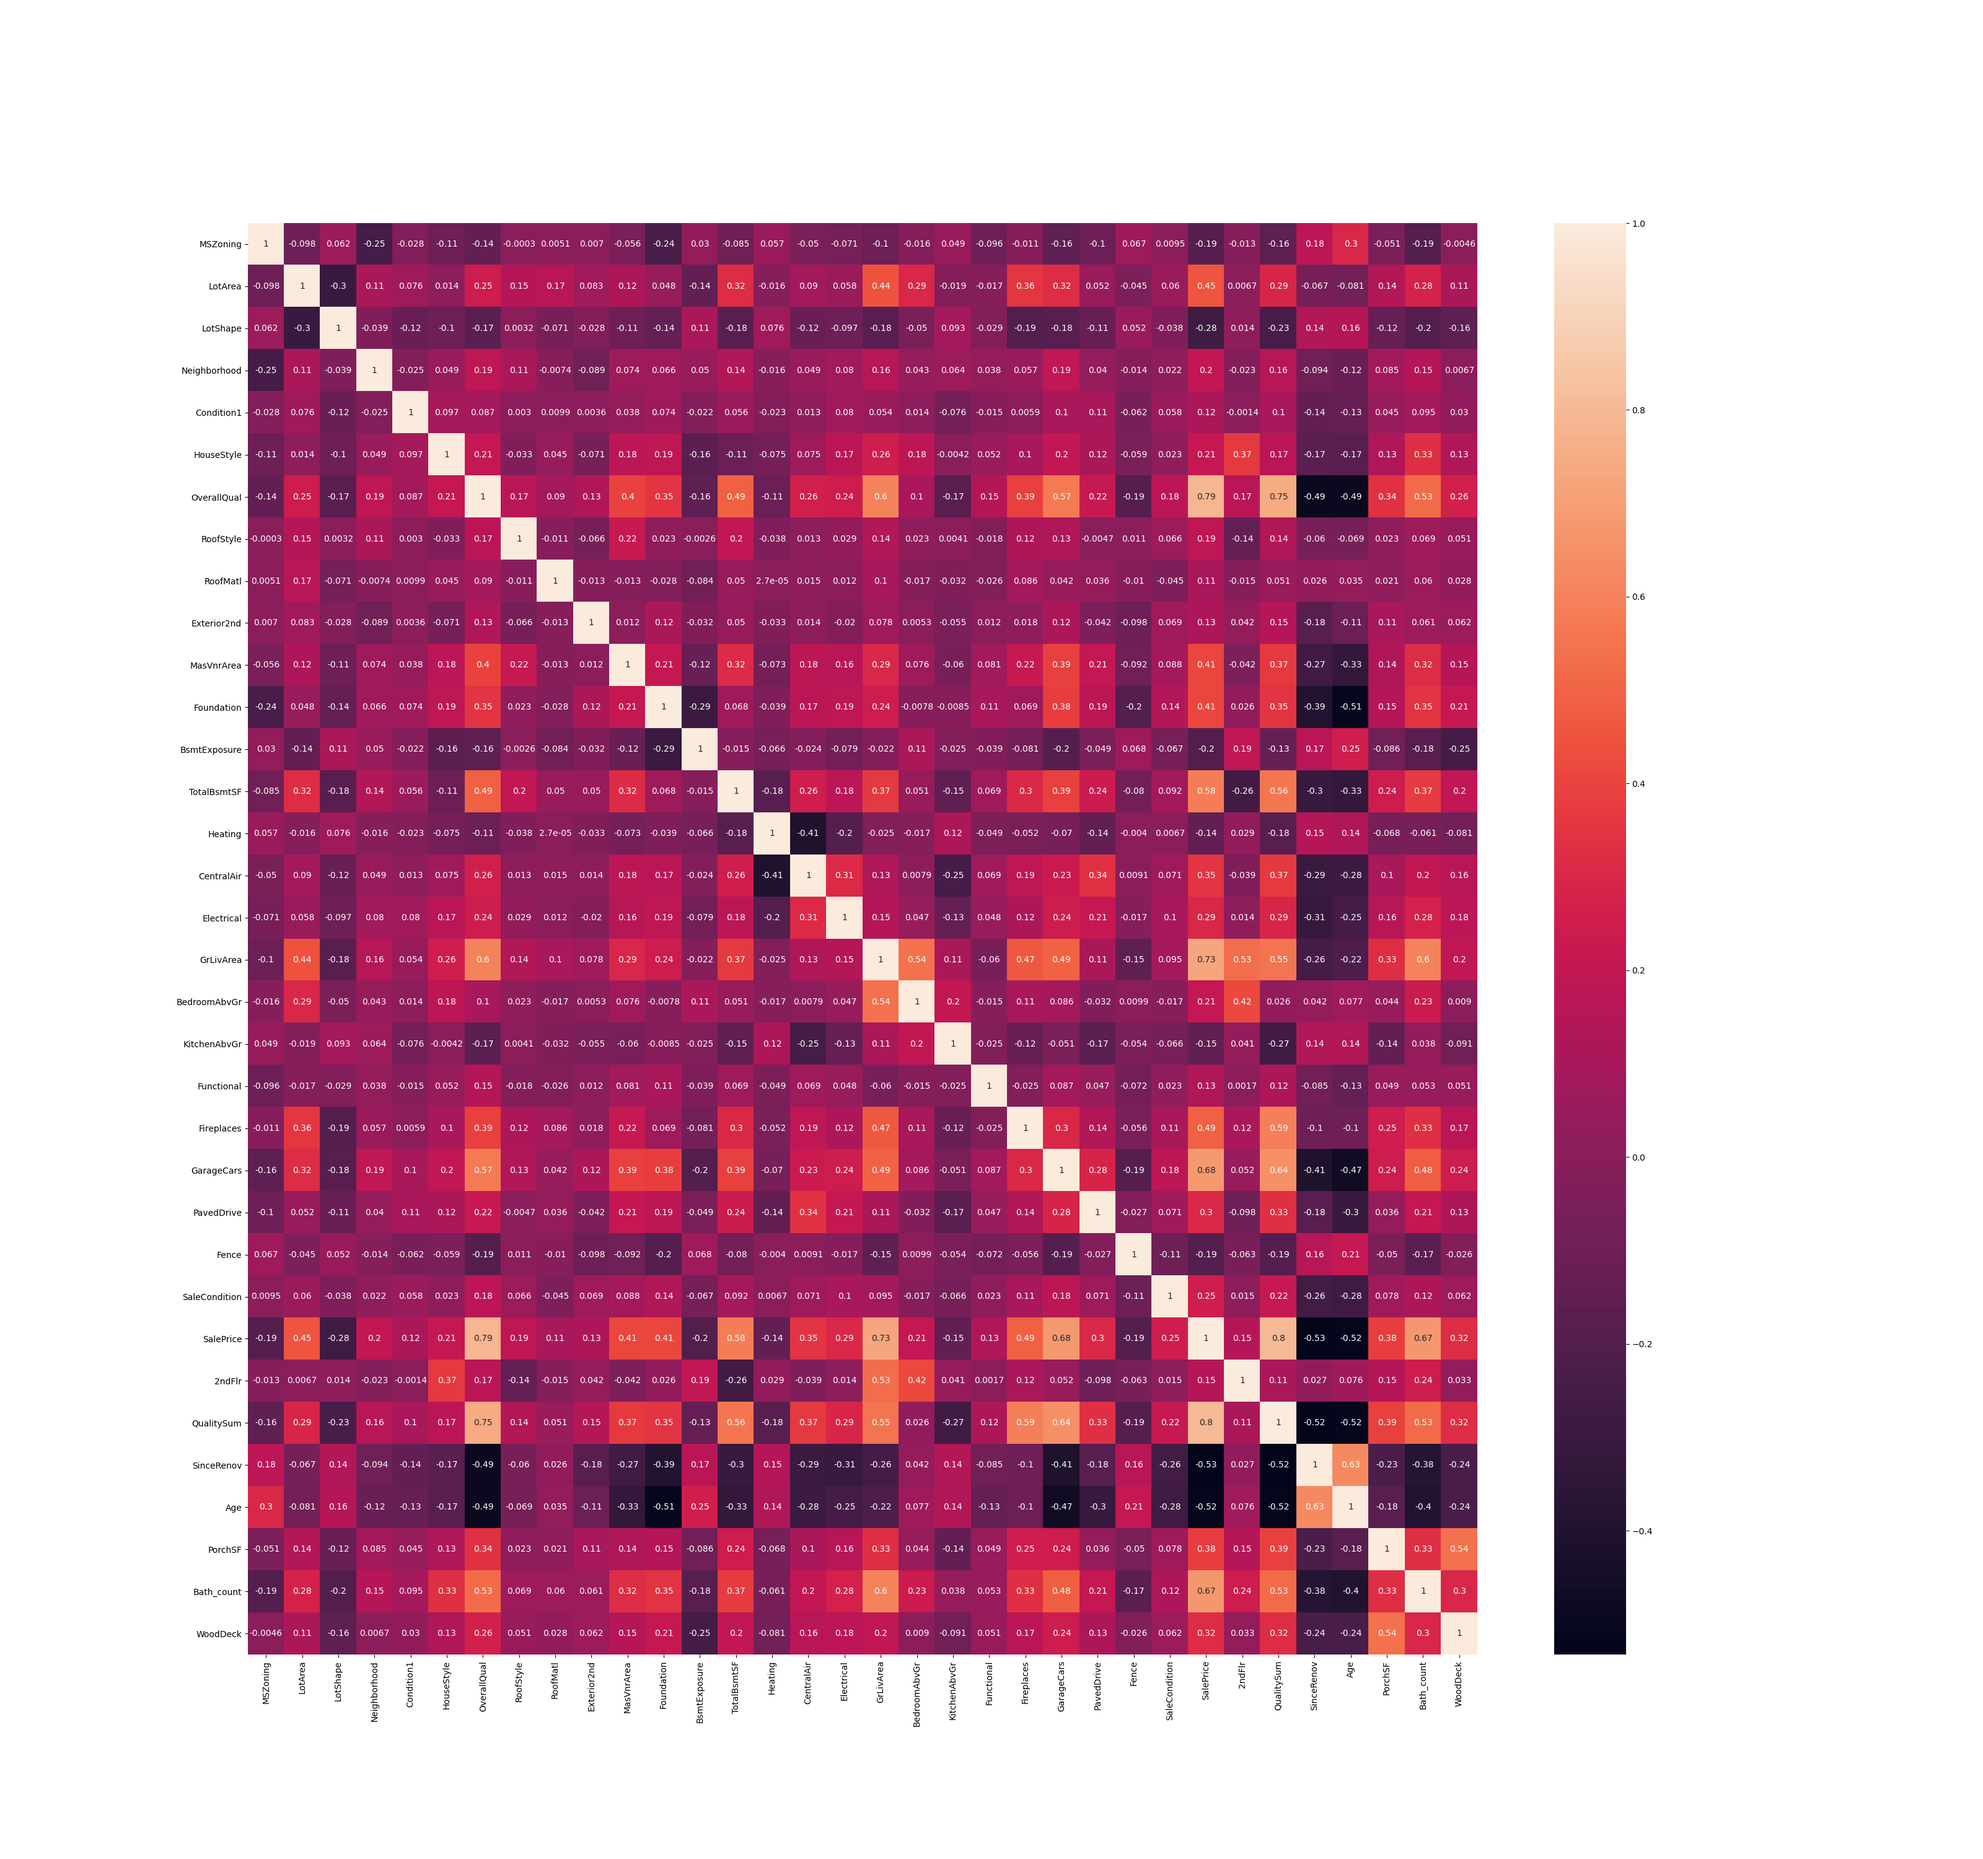
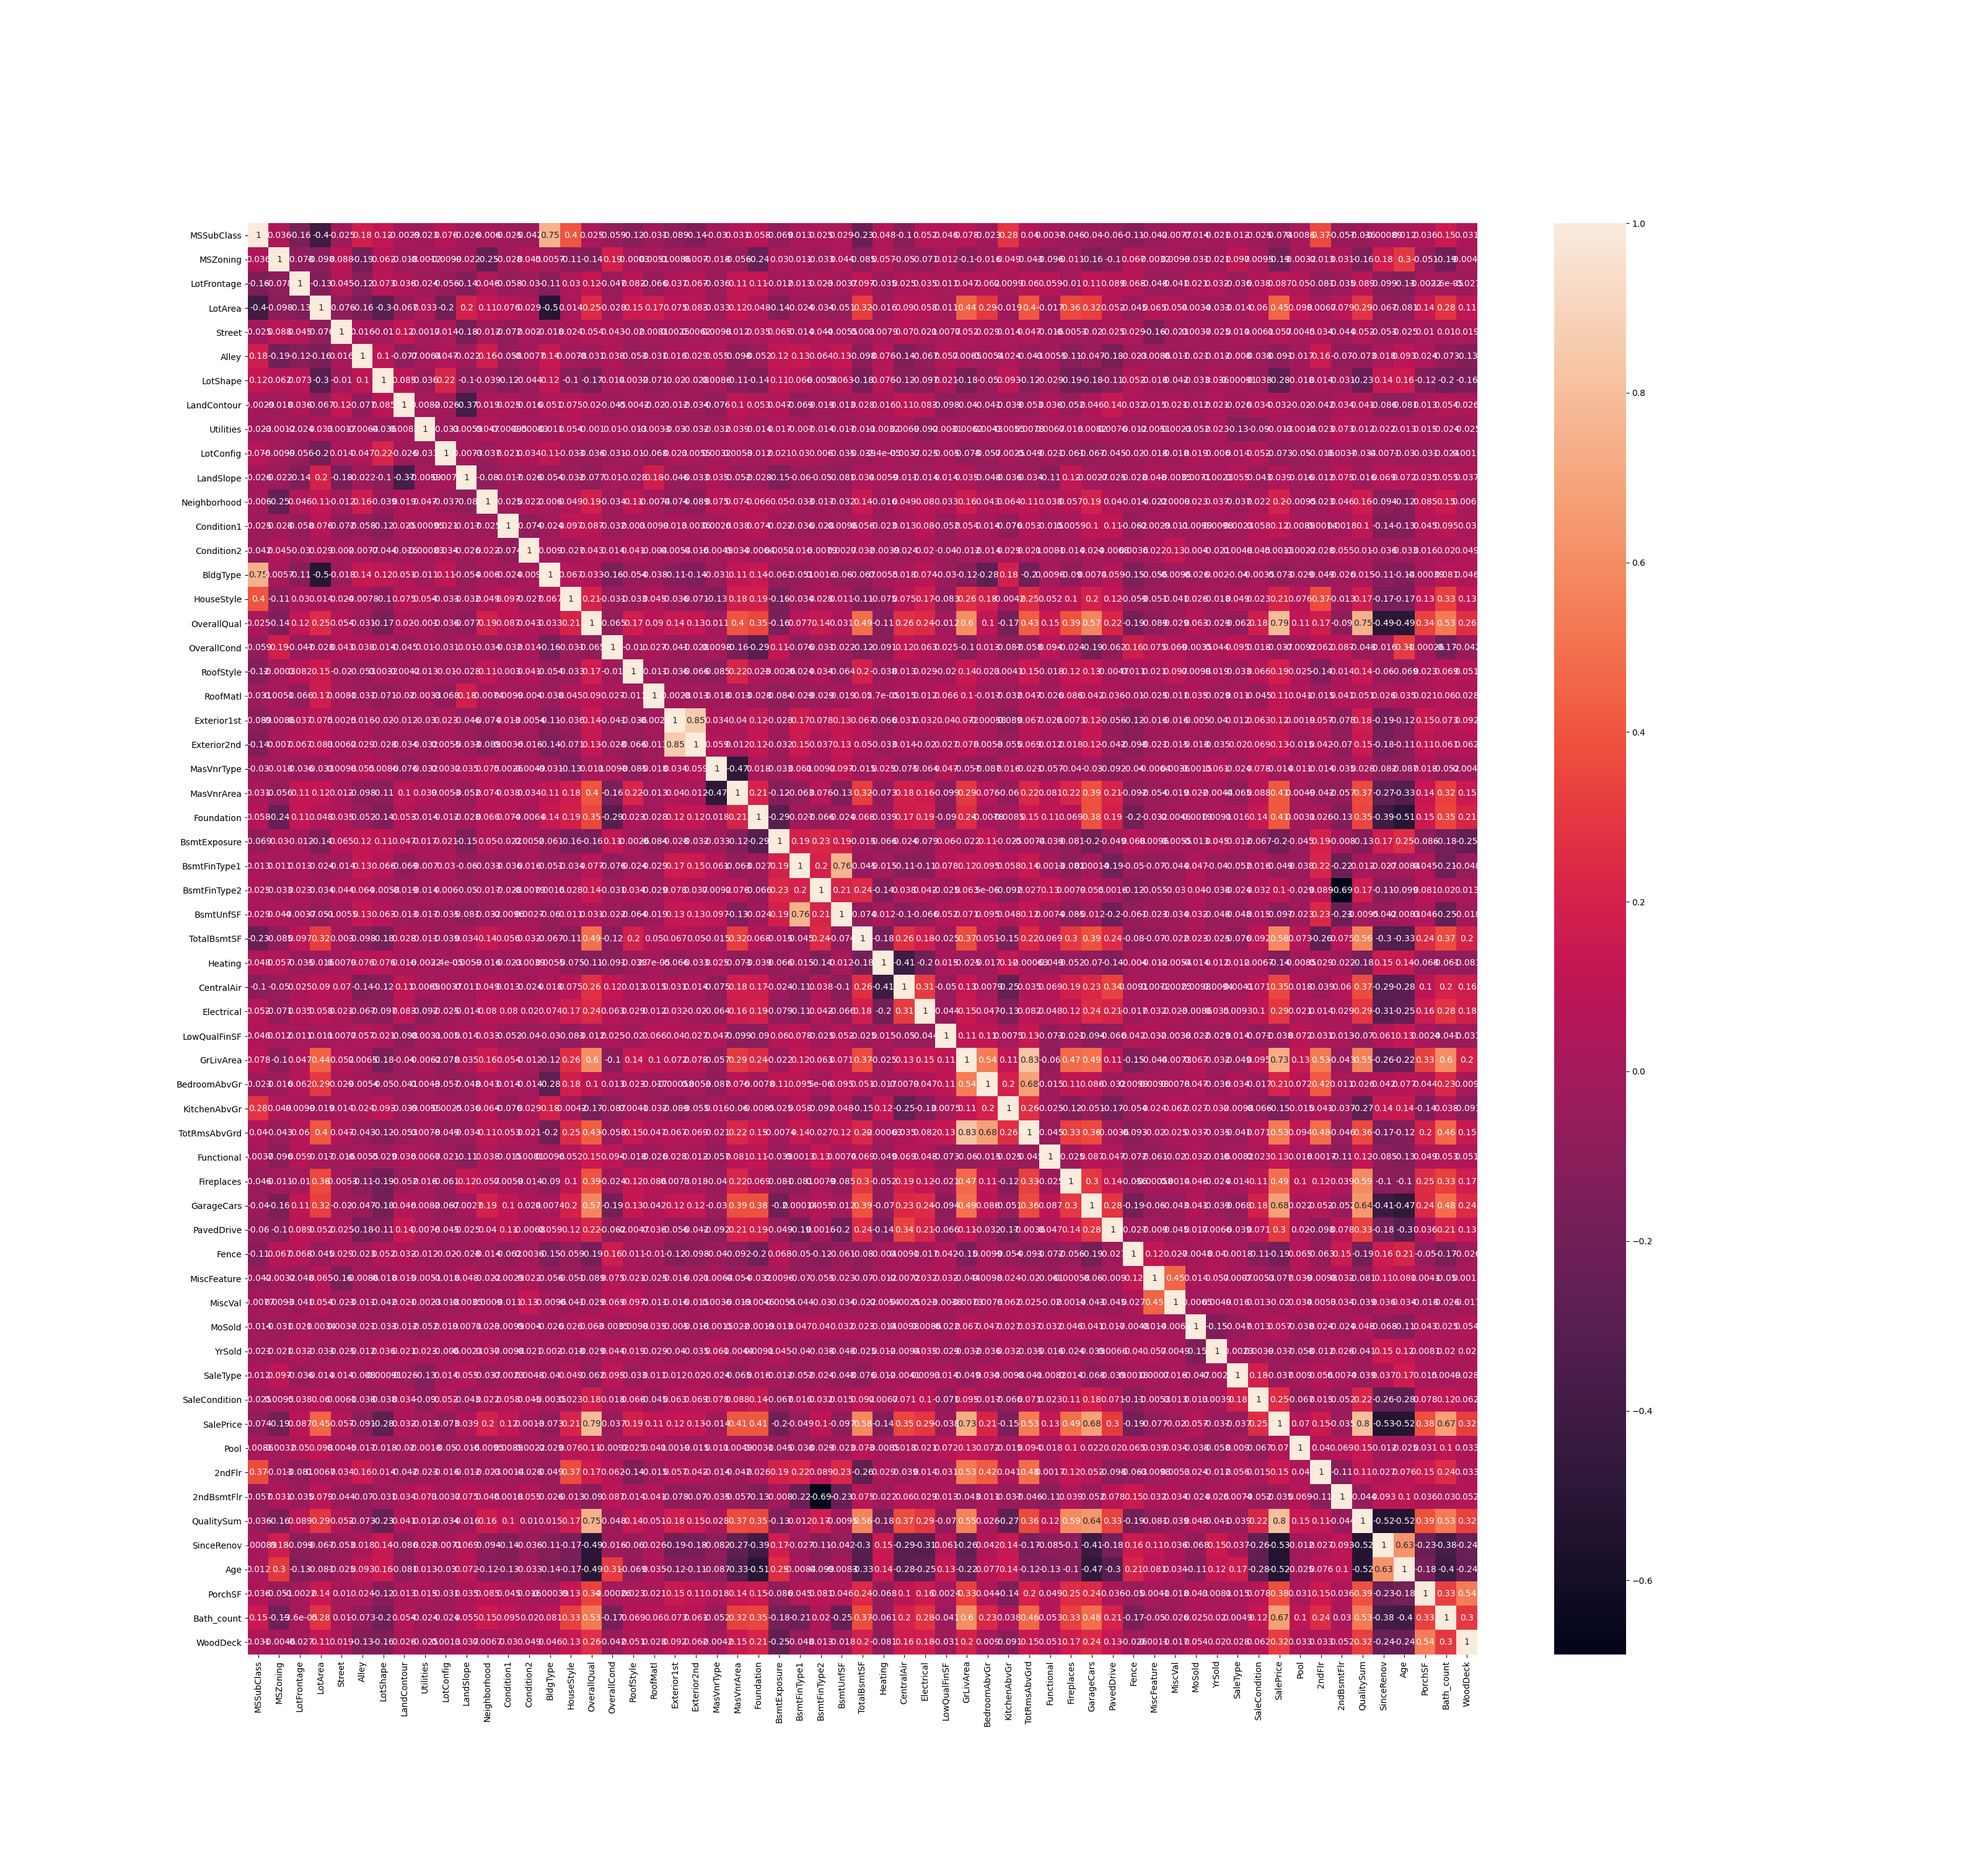
cleaning, boxplot

diff --git a/train.py b/train.py
@@ -67,8 +67,8 @@ print(combine_data.groupby('MasVnrType', as_index=False)['OverallQual'].mean())
 
 
 numeric_list = ['Alley','Street','MiscFeature','Pool','2ndFlr']
-drop_list_columns = ['YearBuilt','1stFlrSF','2ndFlrSF','YearRemodAdd','BsmtFinSF1']
-quantile_list = ['SalePrice','LotArea','LotFrontage','Age','GrLivArea','TotalBsmtSF','GrLivArea','MasVnrArea','BsmtUnfSF','BsmtFinSF1','BsmtFinSF2','1stFlrSF','2ndFlrSF','GarageArea','PorchSF','QualitySum','OverallQual','SinceRenov']
+drop_list_columns = ['YearBuilt','1stFlrSF','2ndFlrSF','YearRemodAdd','BsmtFinSF1','Id','BsmtFinSF2']
+continuous_list = ['SalePrice','LotArea','LotFrontage','Age','GrLivArea','TotalBsmtSF','GrLivArea','MasVnrArea','BsmtUnfSF','BsmtFinSF1','BsmtFinSF2','1stFlrSF','2ndFlrSF','GarageArea','PorchSF','QualitySum','OverallQual','SinceRenov']
 garage_list = ['GarageType','GarageYrBlt','GarageFinish','GarageQual','GarageCond','GarageArea']
 quality_sum_list =['ExterQual','ExterCond','BsmtQual','BsmtCond','HeatingQC','KitchenQual','FireplaceQu','GarageQual','GarageCond','PoolQC']
 bath_list = ['BsmtFullBath','BsmtHalfBath','FullBath','HalfBath']
@@ -239,11 +239,11 @@ plt.savefig('graphs/heatmap_before.png')
 plt.close
 
 #####Histogramms numerical
-hist_list = ['LotFrontage','LotArea','MasVnrArea','BsmtFinSF1','TotalBsmtSF','1stFlrSF','2ndFlrSF','GrLivArea','LowQualFinSF','GarageArea','PorchSF','Bath_count']
-f, ax = plt.subplots(4, 4, figsize=(20, 20))
+##hist_list = ['LotFrontage','LotArea','MasVnrArea','BsmtFinSF1','TotalBsmtSF','1stFlrSF','2ndFlrSF','GrLivArea','LowQualFinSF','GarageArea','PorchSF','Bath_count']
+f, ax = plt.subplots(4, 5, figsize=(20, 20))
 l=1
-for i in hist_list:
-	ax = plt.subplot(4,4,l)
+for i in continuous_list:
+	ax = plt.subplot(4,5,l)
 	sn.histplot(data=train[i])
 	ax.set_title(i)
 	l+=1
@@ -254,13 +254,47 @@ plt.close
 ###transform numerical to obtain normal distribution
 quantile = QuantileTransformer(n_quantiles=1000,output_distribution='normal')
 for i in data:
-	for col in quantile_list:
+	for col in continuous_list:
 		if i.name == 'test' and col == 'SalePrice':
 			pass
 		elif i.name == 'train' and col == 'SalePrice':
 			i[col] = np.log1p(i.loc[:,col].values.reshape(-1, 1))
 		else:
 			i[col] = quantile.fit_transform(i.loc[:,col].values.reshape(-1, 1))
+
+f, ax = plt.subplots(4, 5, figsize=(20, 20))
+l=1
+for i in continuous_list:
+	ax = plt.subplot(4,5,l)
+	sn.histplot(data=train[i])
+	ax.set_title(i)
+	l+=1
+f.tight_layout()
+plt.savefig('graphs/hist_num_quantile.png')
+plt.close
+
+# f, ax = plt.subplots(4, 5, figsize=(20, 20))
+# l=1
+# for i in continuous_list:
+# 	ax = plt.subplot(4,5,l)
+# 	sn.boxplot(x=train[i], y=train["SalePrice"])
+# 	#sn.histplot(data=train[i])
+# 	ax.set_title(i)
+# 	l+=1
+# f.tight_layout()
+# plt.savefig('graphs/box_num_quantile.png')
+# plt.close
+
+f, ax = plt.subplots(4, 5, figsize=(20, 20))
+l=1
+for i in continuous_list:
+	ax = plt.subplot(4,5,l)
+	sn.boxplot(data=train[i])
+	ax.set_title(i)
+	l+=1
+plt.savefig('graphs/box_num_quantile.png')
+plt.close
+
 
 ####delete defined columns
 for i in data:
@@ -279,15 +313,16 @@ for i in data:
 			i.drop(col, axis=1, inplace=True)
 
 ###remove columns with low correlation to price
-print('\n***Remove features with low correlation to SalePrice and analyse correlations between remaining features***')
-drop_cutoff = []
-for col in train.columns:
-	if np.sqrt((train['SalePrice'].corr(train[col]))**2) < 0.1:
-		drop_cutoff.append([col, train['SalePrice'].corr(train[col])])
-		train.drop(col, axis=1, inplace=True)
-		test.drop(col, axis=1, inplace=True)
-print('The following features were dropped due to low correlation:')
-print(*drop_cutoff, sep = '\n')
+
+# print('\n***Remove features with low correlation to SalePrice and analyse correlations between remaining features***')
+# drop_cutoff = []
+# for col in train.columns:
+# 	if np.abs(train['SalePrice'].corr(train[col])) < 0.1:
+# 		drop_cutoff.append([col, train['SalePrice'].corr(train[col])])
+# 		train.drop(col, axis=1, inplace=True)
+# 		test.drop(col, axis=1, inplace=True)
+# print('The following features were dropped due to low correlation:')
+# print(*drop_cutoff, sep = '\n')
 
 ###check for high correlation between features, remove worse feature when correlation higher than 0.8
 high_corr = []
@@ -297,12 +332,12 @@ for col1 in train.columns:
 		if col1 == col2 or col1 == 'SalePrice' or col2 == 'SalePrice':
 			pass
 		else:
-			if np.sqrt((train[col1].corr(train[col2]))**2) > 0.6:
+			if np.abs(train[col1].corr(train[col2])) > 0.6:
 				high_corr.append([col1, col2, train[col1].corr(train[col2])])
-			if np.sqrt((train[col1].corr(train[col2]))**2) > 0.8 and np.sqrt((train['SalePrice'].corr(train[col1]))**2) > np.sqrt((train['SalePrice'].corr(train[col2]))**2):
+			if np.abs(train[col1].corr(train[col2])) > 0.9 and np.abs(train['SalePrice'].corr(train[col1])) > np.abs(train['SalePrice'].corr(train[col2])):
 				if col2 not in drop_corr:
 					drop_corr.append(col2)
-			elif np.sqrt((train[col1].corr(train[col2]))**2) > 0.8 and np.sqrt((train['SalePrice'].corr(train[col2]))**2) > np.sqrt((train['SalePrice'].corr(train[col1]))**2):
+			elif np.abs(train[col1].corr(train[col2])) > 0.9 and np.abs(train['SalePrice'].corr(train[col2])) > np.abs(train['SalePrice'].corr(train[col1])):
 				if col1 not in drop_corr:
 					drop_corr.append(col1)
 
@@ -317,10 +352,10 @@ print('\nAutomatically removed:')
 print(*drop_corr, sep = '\n')
 
 ###plot new distributions
-f, ax = plt.subplots(8, 7, figsize=(40, 40))
+f, ax = plt.subplots(8, 8, figsize=(40, 40))
 l=1
 for col in train.columns:
-	ax = plt.subplot(8,7,l)
+	ax = plt.subplot(8,8,l)
 	sn.histplot(data=train[col],kde=True)
 	ax.set_title(col)
 	l+=1
